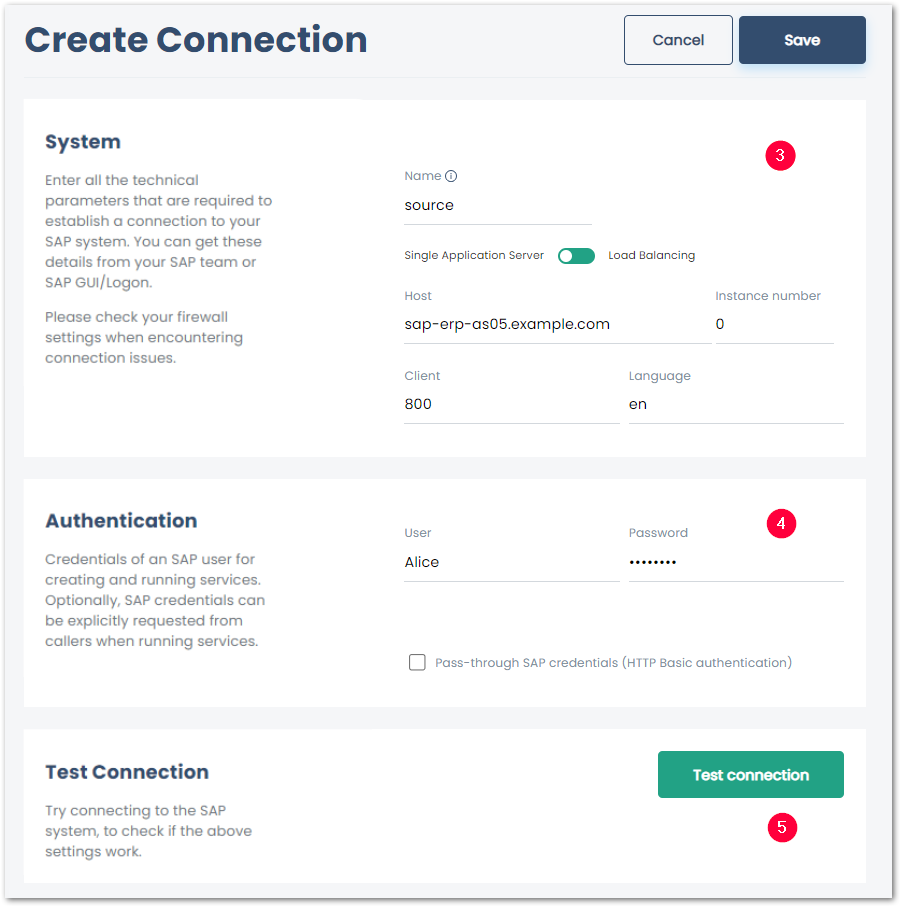
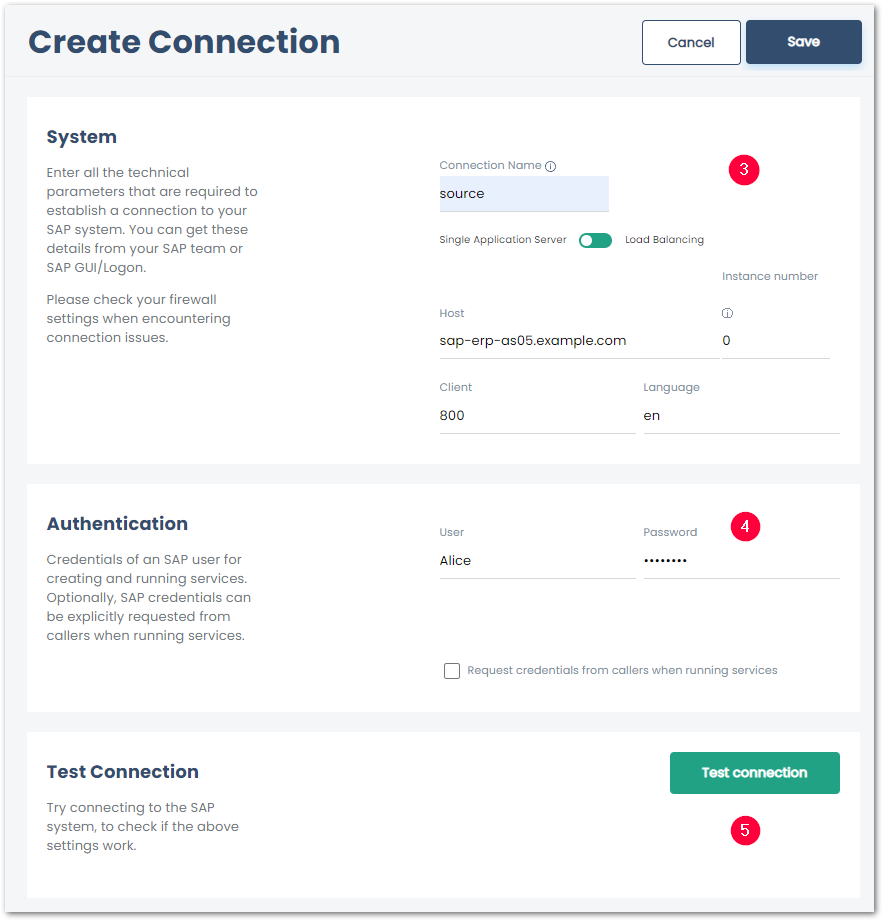
yunIO screenshot update

diff --git a/content/_de/yunio/sap-verbindungen-anlegen.md b/content/_de/yunio/sap-verbindungen-anlegen.md
@@ -79,9 +79,9 @@ SAP-Benutzername.
 **Passwort**<br>
 Passwort des SAP-Benutzers.<br>
 
-**Pass-through SAP credentials (HTTP Basic authentication)**<br> 
-Wenn diese Checkbox aktiv ist, werden die in die Felder *User* und *Password* eingegebenen SAP-Anmeldeinformationen nicht übernommen.
-Stattdessen müssen die SAP-Anmeldeinformationen über die Windows Basic Authentifizierung angegeben werden, wenn eine Extraktion ausgeführt wird. 
+**Request credentials from callers when running services**<br> 
+Wenn diese Checkbox aktiv ist, werden die eingegebenen SAP-Anmeldeinformationen aus *User* und *Password* nicht übernommen.
+Stattdessen müssen die SAP-Anmeldeinformationen über die Windows Basic Authentifizierung angegeben werden, sobald eine Extraktion ausgeführt wird. 
 
 ### Angelegte SAP-Verbindung überprüfen
 

diff --git a/content/_en/yunio/sap-connection.md b/content/_en/yunio/sap-connection.md
@@ -74,8 +74,8 @@ SAP username.
 **Passwort**<br>
 Password of the SAP user.
 
-**Pass-through SAP credentials (HTTP Basic authentication)**<br>
-When this checkbox is active, the SAP credentials entered in the *User* and *Password* fields are not applied.
+**Request credentials from callers when running services**<br>
+If this checkbox is active, the SAP credentials entered in **User** and **Password** are not applied.
 Instead, SAP credentials need to be provided via basic authentication when executing an extraction. 
 
 
